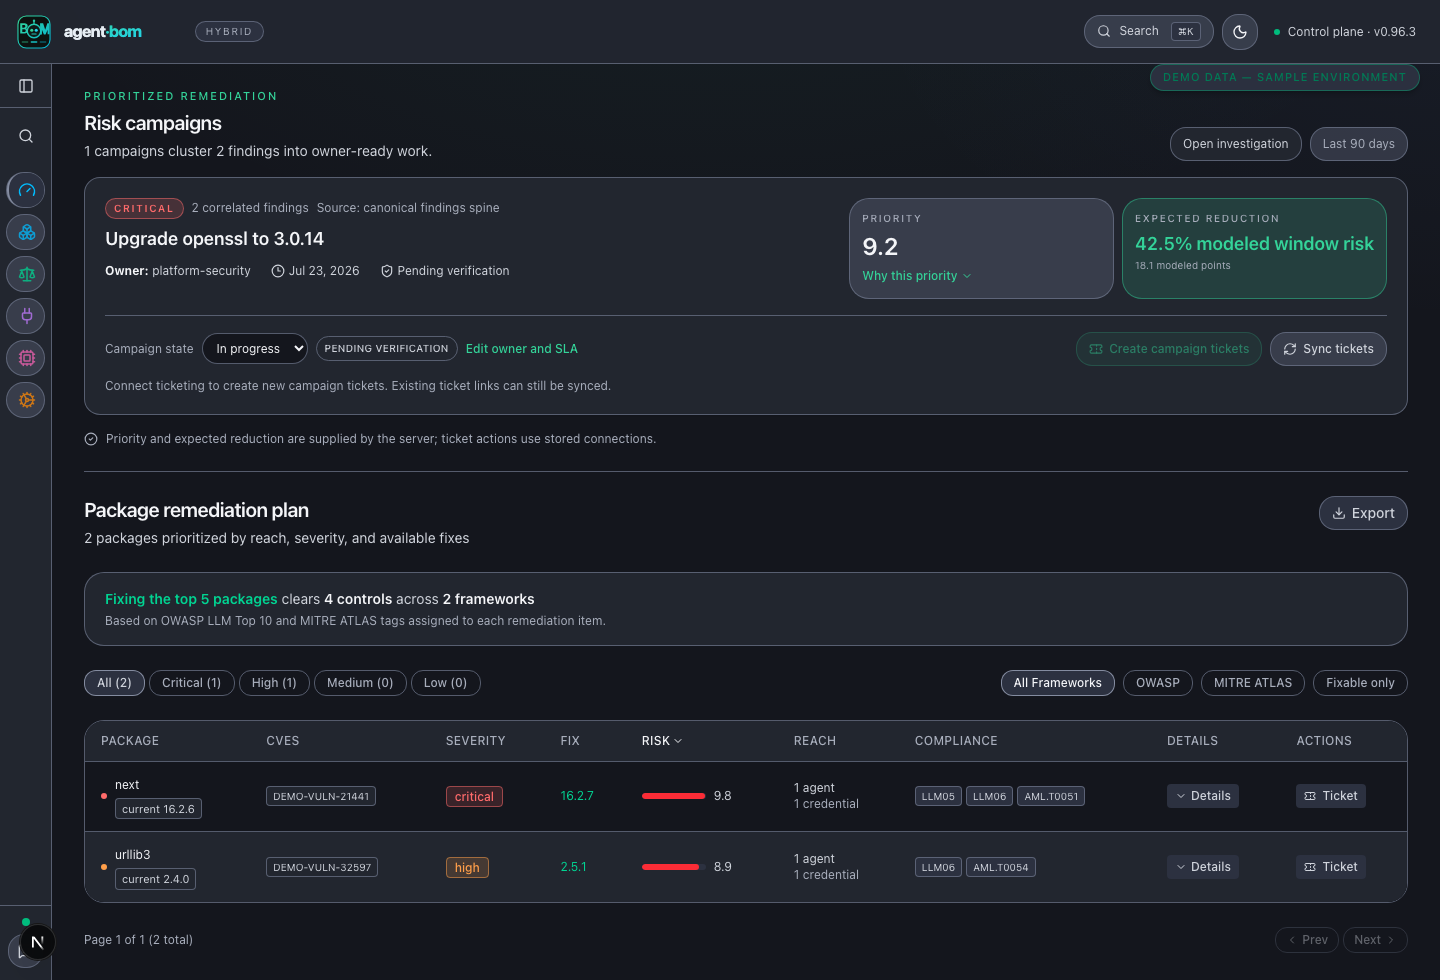
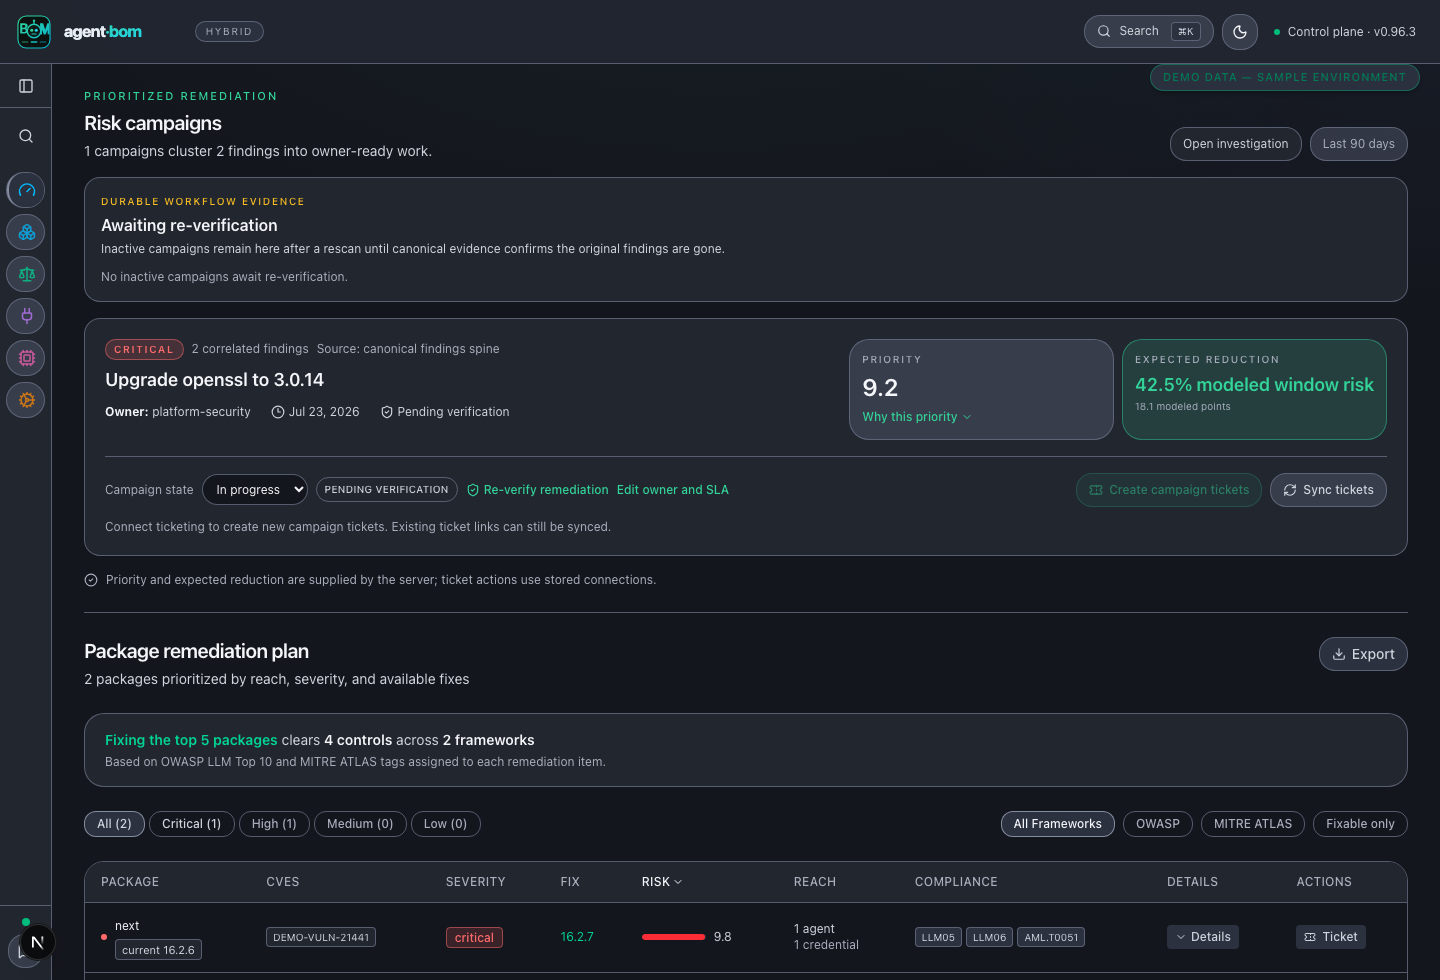
test(ui): capture campaign verification workflow

diff --git a/ui/tests/product-proof-contract.test.ts b/ui/tests/product-proof-contract.test.ts
@@ -31,6 +31,7 @@ describe("product proof capture contract", () => {
 
   it("mocks the campaign-first remediation contracts", () => {
     expect(source).toContain('page.route("**/v1/campaigns"');
+    expect(source).toContain('page.route("**/v1/campaigns/verification-queue**"');
     expect(source).toContain('schema_version: "risk-campaigns.v1"');
     expect(source).toContain('page.route("**/v1/ticketing/connections"');
   });